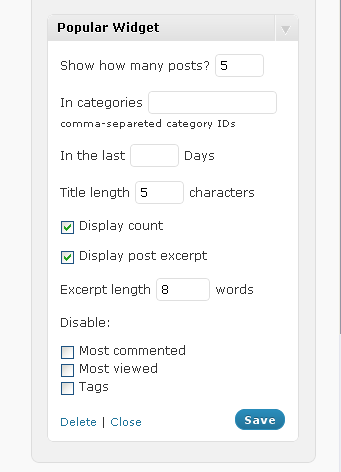
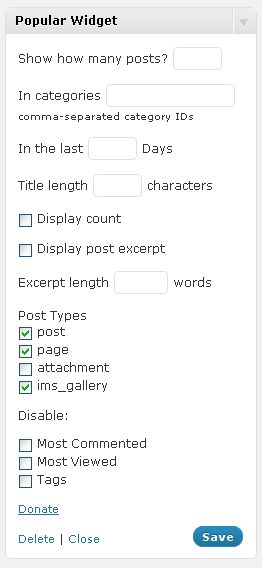
Release 0.5.2
git-svn-id: https://plugins.svn.wordpress.org/popular-widget/trunk@358988 b8457f37-d9ea-0310-8a92-e5e31aec5664

diff --git a/popular-widget.php b/popular-widget.php
@@ -4,7 +4,7 @@ Plugin Name: Popular Widget
 Plugin URI: http://imstore.xparkmedia.com/popular-widget/
 Description: Display most viewed, most commented and tags in one widget (with tabs)
 Author: Hafid R. Trujillo Huizar
-Version: 0.5.1
+Version: 0.5.2
 Author URI: http://www.xparkmedia.com
 Requires at least: 3.0.0
 Tested up to: 3.1.0
@@ -44,7 +44,7 @@ class PopularWidget extends WP_Widget {
 		if(!defined('POPWIDGET_URL')) 
 			define('POPWIDGET_URL',WP_PLUGIN_URL."/".plugin_basename(dirname(__FILE__))."/");
 		
-		$this->version = "0.5.1";
+		$this->version = "0.5.2";
 		$this->domain  = "pop-wid";
 		$this->load_text_domain();
 		
@@ -97,6 +97,9 @@ class PopularWidget extends WP_Widget {
 		$days	= ($lastdays) ? $lastdays : 365;
 		$words	= ($excerptlength) ? $excerptlength : 15;
 		
+		$posttypes = (empty($posttypes)) ? $posttypes = array('post'=>'on') : $posttypes;
+		foreach($posttypes as $type => $val) $types[] = "'$type'"; $types = implode(',',$types);
+		
 		if($cats){
 			$join = 
 			"INNER JOIN $wpdb->term_relationships tr ON p.ID = tr.object_id
@@ -107,9 +110,9 @@ class PopularWidget extends WP_Widget {
 		
 		if(!$nocommented){
 		$commented = $wpdb->get_results(
-			"SELECT DISTINCT comment_count,ID,post_title,post_content,post_excerpt,post_date 
+		"SELECT DISTINCT comment_count,ID,post_title,post_content,post_excerpt,post_date 
 			FROM $wpdb->posts p $join WHERE  post_date >= '" . date('Y-m-d', current_time('timestamp')-($days*86400)) . "' 
-			AND post_status = 'publish' AND comment_count != 0 $where
+			AND post_status = 'publish' AND comment_count != 0 AND post_type IN ($types) $where
 			ORDER BY comment_count DESC LIMIT $limit"
 		);}
 		
@@ -119,7 +122,7 @@ class PopularWidget extends WP_Widget {
 			FROM $wpdb->posts p JOIN $wpdb->postmeta pm ON p.ID = pm.post_id $join
 			WHERE meta_key = '_popular_views' AND meta_value != ''
 			AND post_date >= '" . date('Y-m-d', current_time('timestamp')-($days*86400)) . "' 
-			AND post_status = 'publish' $where
+			AND post_status = 'publish' AND post_type IN ($types) $where
 			ORDER BY (meta_value+0) DESC LIMIT $limit"
 		);}
 		
@@ -132,6 +135,7 @@ class PopularWidget extends WP_Widget {
 		if(!$noviewed) $output .= '<li><a href="#viewed" rel="nofollow">'.__('Most Viewed',$this->domain).'</a></li>';
 		if(!$notags) $output .= '<li><a href="#tags" rel="nofollow">'.__('Tags',$this->domain).'</a></li>';
 		$output .= '</ul><div class="pop-inside">';
+
 		
 		//most commented
 		if(!$nocommented){
@@ -191,33 +195,41 @@ class PopularWidget extends WP_Widget {
 	 */
 	function form($instance) {
 		extract($instance);
-		 ?>
+		$post_types = get_post_types(array('public'=>true),'names','and');
+		$posttypes = (empty($posttypes)) ? $posttypes = array('post'=>'on') : $posttypes;
+	 	?>
 		<p>
-		<label for="<?php echo $this->get_field_id('limit')?>"><?php _e('Show how many posts?',$this->domain)?> <input id="<?php echo $this->get_field_id('limit')?>" name="<?php echo $this->get_field_name('limit')?>" size="4" type="text" value="<?php echo $limit?>"/></label>
+			<label for="<?php echo $this->get_field_id('limit')?>"><?php _e('Show how many posts?',$this->domain)?> <input id="<?php echo $this->get_field_id('limit')?>" name="<?php echo $this->get_field_name('limit')?>" size="4" type="text" value="<?php echo $limit?>"/></label>
 		</p>
 		<p>
-		<label for="<?php echo $this->get_field_id('cats')?>"><?php _e('In categories',$this->domain)?> <input id="<?php echo $this->get_field_id('cats')?>" name="<?php echo $this->get_field_name('cats')?>" size="20" type="text" value="<?php echo $cats?>"/></label><br /><small><?php _e('comma-separated category IDs',$this->domain)?> </small>
+			<label for="<?php echo $this->get_field_id('cats')?>"><?php _e('In categories',$this->domain)?> <input id="<?php echo $this->get_field_id('cats')?>" name="<?php echo $this->get_field_name('cats')?>" size="20" type="text" value="<?php echo $cats?>"/></label><br /><small><?php _e('comma-separated category IDs',$this->domain)?> </small>
 		</p>
 		<p>
-		<label for="<?php echo $this->get_field_id('lastdays')?>"><?php _e('In the last',$this->domain)?> <input id="<?php echo $this->get_field_id('lastdays')?>" name="<?php echo $this->get_field_name('lastdays')?>" size="4" type="text" value="<?php echo $lastdays?>"/> <?php _e('Days',$this->domain)?></label>
+			<label for="<?php echo $this->get_field_id('lastdays')?>"><?php _e('In the last',$this->domain)?> <input id="<?php echo $this->get_field_id('lastdays')?>" name="<?php echo $this->get_field_name('lastdays')?>" size="4" type="text" value="<?php echo $lastdays?>"/> <?php _e('Days',$this->domain)?></label>
 		</p>
 		<p>
-		<label for="<?php echo $this->get_field_id('tlength')?>"><?php _e('Title length',$this->domain)?> <input id="<?php echo $this->get_field_id('tlength')?>" name="<?php echo $this->get_field_name('tlength')?>" size="4" type="text" value="<?php echo $tlength?>"/> <?php _e('characters',$this->domain)?></label>
+			<label for="<?php echo $this->get_field_id('tlength')?>"><?php _e('Title length',$this->domain)?> <input id="<?php echo $this->get_field_id('tlength')?>" name="<?php echo $this->get_field_name('tlength')?>" size="4" type="text" value="<?php echo $tlength?>"/> <?php _e('characters',$this->domain)?></label>
 		</p>
 		<p>
-		<label for="<?php echo $this->get_field_id('count')?>"><input id="<?php echo $this->get_field_id('count')?>" name="<?php echo $this->get_field_name('count')?>" type="checkbox" <?php echo($count)?'checked="checked"':''; ?> /> <?php _e('Display count',$this->domain)?></label>
+			<label for="<?php echo $this->get_field_id('count')?>"><input id="<?php echo $this->get_field_id('count')?>" name="<?php echo $this->get_field_name('count')?>" type="checkbox" <?php echo($count)?'checked="checked"':''; ?> /> <?php _e('Display count',$this->domain)?></label>
 		</p>
 		<p>
-		<label for="<?php echo $this->get_field_id('excerpt')?>"><input id="<?php echo $this->get_field_id('excerpt')?>" name="<?php echo $this->get_field_name('excerpt')?>" type="checkbox" <?php echo($excerpt)?'checked="checked"':''; ?> /> <?php _e('Display post excerpt',$this->domain)?></label>
+			<label for="<?php echo $this->get_field_id('excerpt')?>"><input id="<?php echo $this->get_field_id('excerpt')?>" name="<?php echo $this->get_field_name('excerpt')?>" type="checkbox" <?php echo($excerpt)?'checked="checked"':''; ?> /> <?php _e('Display post excerpt',$this->domain)?></label>
 		</p>
 		<p>
-		<label for="<?php echo $this->get_field_id('excerptlength')?>"><?php _e('Excerpt length',$this->domain)?> <input id="<?php echo $this->get_field_id('excerptlength')?>" name="<?php echo $this->get_field_name('excerptlength')?>" size="5" type="text" value="<?php echo $excerptlength?>"/> <?php _e('words',$this->domain)?></label>
+			<label for="<?php echo $this->get_field_id('excerptlength')?>"><?php _e('Excerpt length',$this->domain)?> <input id="<?php echo $this->get_field_id('excerptlength')?>" name="<?php echo $this->get_field_name('excerptlength')?>" size="5" type="text" value="<?php echo $excerptlength?>"/> <?php _e('words',$this->domain)?></label>
+		</p>
+		<p>
+			<label><?php _e('Post Types',$this->domain)?></label><br />
+			<?php foreach ($post_types  as $post_type) { ?>
+			<label for="<?php echo $this->get_field_id($post_type)?>"><input id="<?php echo $this->get_field_id($post_type)?>" name="<?php echo $this->get_field_name('posttypes')."[$post_type]"?>" type="checkbox" <?php echo($posttypes[$post_type])?'checked="checked"':''; ?> /> <?php echo $post_type?></label><br />
+			<?php }?>
 		</p>
 		<p><?php _e('Disable:',$this->domain)?></p>
 		<p>
-		<label for="<?php echo $this->get_field_id('nocommented')?>"><input id="<?php echo $this->get_field_id('nocommented')?>" name="<?php echo $this->get_field_name('nocommented')?>" type="checkbox" <?php echo($nocommented)?'checked="checked"':''; ?> /> <?php _e('Most Commented',$this->domain)?></label><br />
-		<label for="<?php echo $this->get_field_id('noviewed')?>"><input id="<?php echo $this->get_field_id('noviewed')?>" name="<?php echo $this->get_field_name('noviewed')?>" type="checkbox" <?php echo($noviewed)?'checked="checked"':''; ?> /> <?php _e('Most Viewed',$this->domain)?></label><br />
-		<label for="<?php echo $this->get_field_id('notags')?>"><input id="<?php echo $this->get_field_id('notags')?>" name="<?php echo $this->get_field_name('notags')?>" type="checkbox" <?php echo($notags)?'checked="checked"':''; ?> /> <?php _e('Tags',$this->domain)?></label>
+			<label for="<?php echo $this->get_field_id('nocommented')?>"><input id="<?php echo $this->get_field_id('nocommented')?>" name="<?php echo $this->get_field_name('nocommented')?>" type="checkbox" <?php echo($nocommented)?'checked="checked"':''; ?> /> <?php _e('Most Commented',$this->domain)?></label><br />
+			<label for="<?php echo $this->get_field_id('noviewed')?>"><input id="<?php echo $this->get_field_id('noviewed')?>" name="<?php echo $this->get_field_name('noviewed')?>" type="checkbox" <?php echo($noviewed)?'checked="checked"':''; ?> /> <?php _e('Most Viewed',$this->domain)?></label><br />
+			<label for="<?php echo $this->get_field_id('notags')?>"><input id="<?php echo $this->get_field_id('notags')?>" name="<?php echo $this->get_field_name('notags')?>" type="checkbox" <?php echo($notags)?'checked="checked"':''; ?> /> <?php _e('Tags',$this->domain)?></label>
 		</p>
 		<a href="https://www.paypal.com/cgi-bin/webscr?cmd=_s-xclick&hosted_button_id=8SJEQXK5NK4ES"><?php _e('Donate',$this->domain)?></a>
 		 <?php
@@ -231,7 +243,7 @@ class PopularWidget extends WP_Widget {
 	 * @since 0.5.0
 	 */
 	function set_post_view() {
-		if(is_single()){
+		if(is_single() || is_page()){
 			global $post;
 			if(!isset($_COOKIE['popular_views_'.COOKIEHASH]) && setcookie("test", "test", time() + 360)){
 				update_post_meta($post->ID,'_popular_views',get_post_meta($post->ID,'_popular_views',true)+1);
